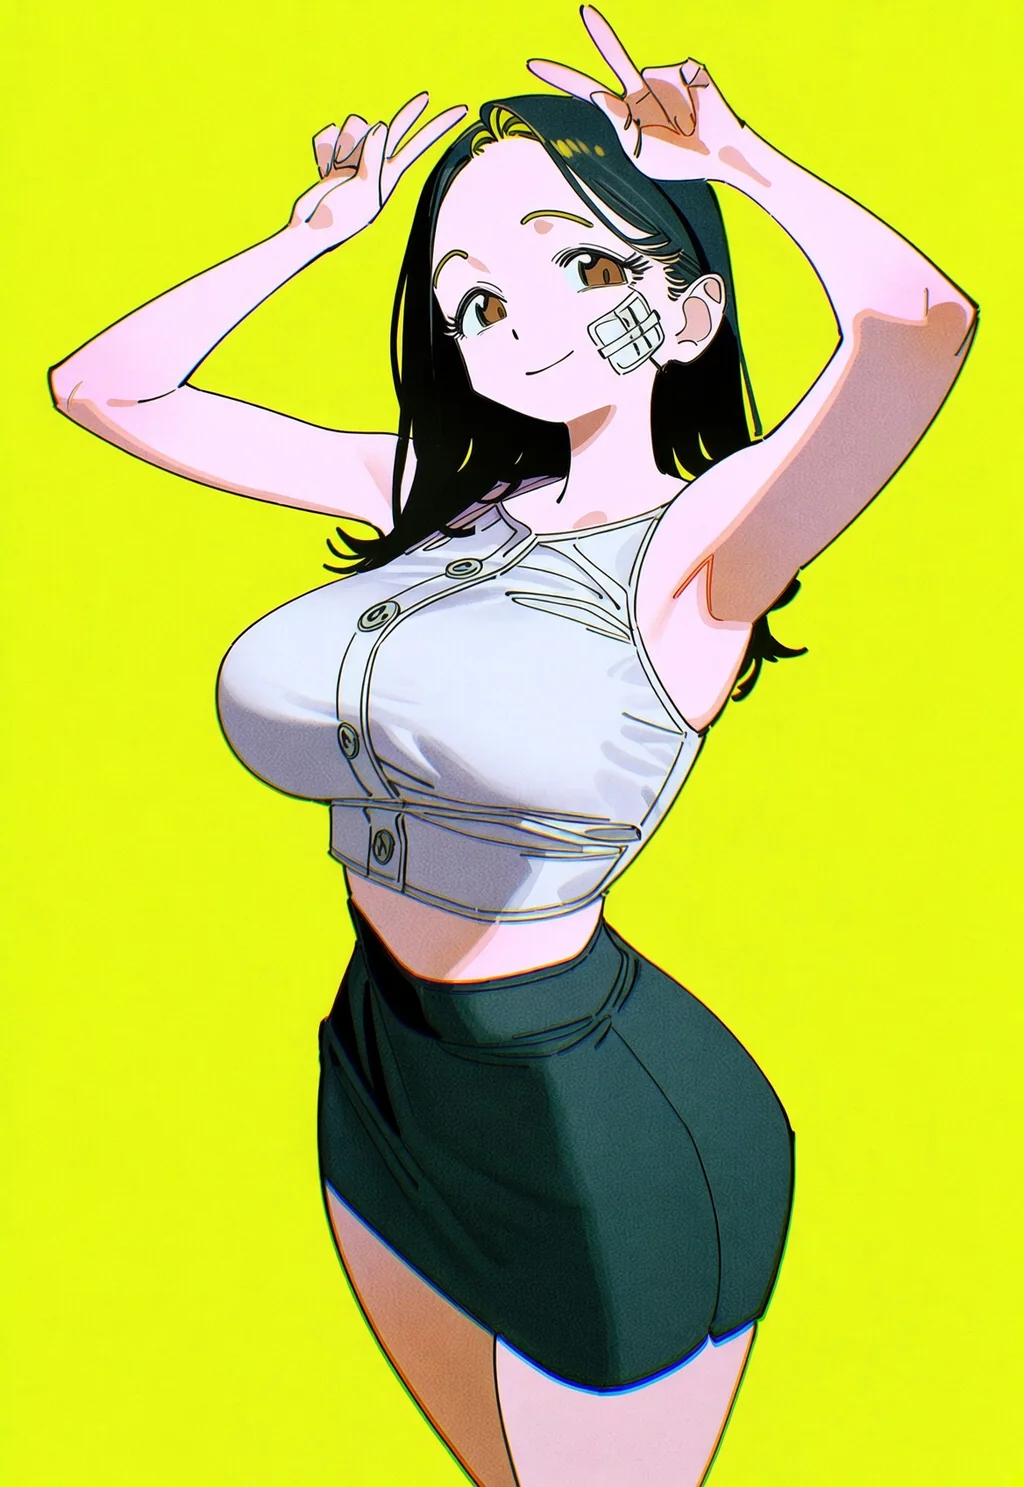
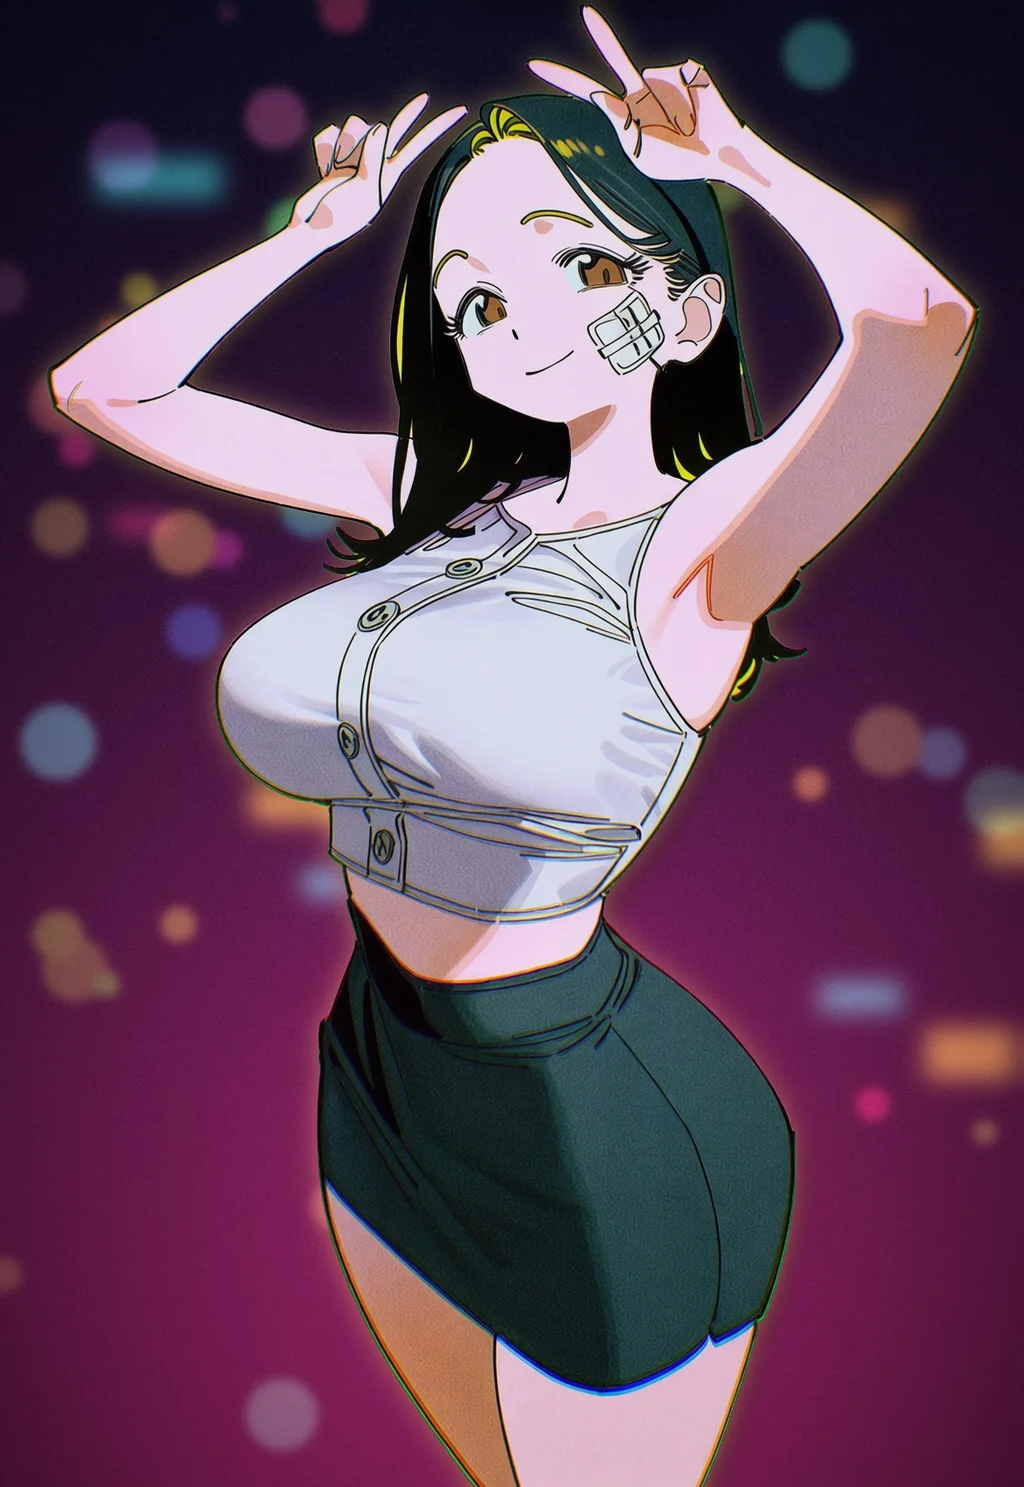
ARTIST: scenes behind PEACHY, Jinxie and Haze (was lavvv) in place of their flat colours
Claude-Session: https://claude.ai/code/session_0129eFqVev3PTL5Z78DGK587

diff --git a/src/artist/ArtistPage.jsx b/src/artist/ArtistPage.jsx
@@ -3,7 +3,7 @@ import zyoImg from '../assets/artist/zyo.webp'
 import tizzzzImg from '../assets/artist/tizzzz.webp'
 import peachyImg from '../assets/artist/peachy.webp'
 import jinxieImg from '../assets/artist/jinxie.webp'
-import lavvvImg from '../assets/artist/lavvv.webp'
+import hazeImg from '../assets/artist/haze.webp'
 import { MANO_COLONY_HASH, MANO_RUN_HASH } from '../route'
 import { GAMES } from '../data/games'
 import { YOUTUBE_URL } from '../components/Footer'
@@ -63,9 +63,9 @@ const ARTISTS = [
     links: [],
   },
   {
-    id: 'lavvv',
-    name: 'lavvv',
-    img: lavvvImg,
+    id: 'haze',
+    name: 'Haze',
+    img: hazeImg,
     w: 1024,
     h: 1487,
     links: [],
